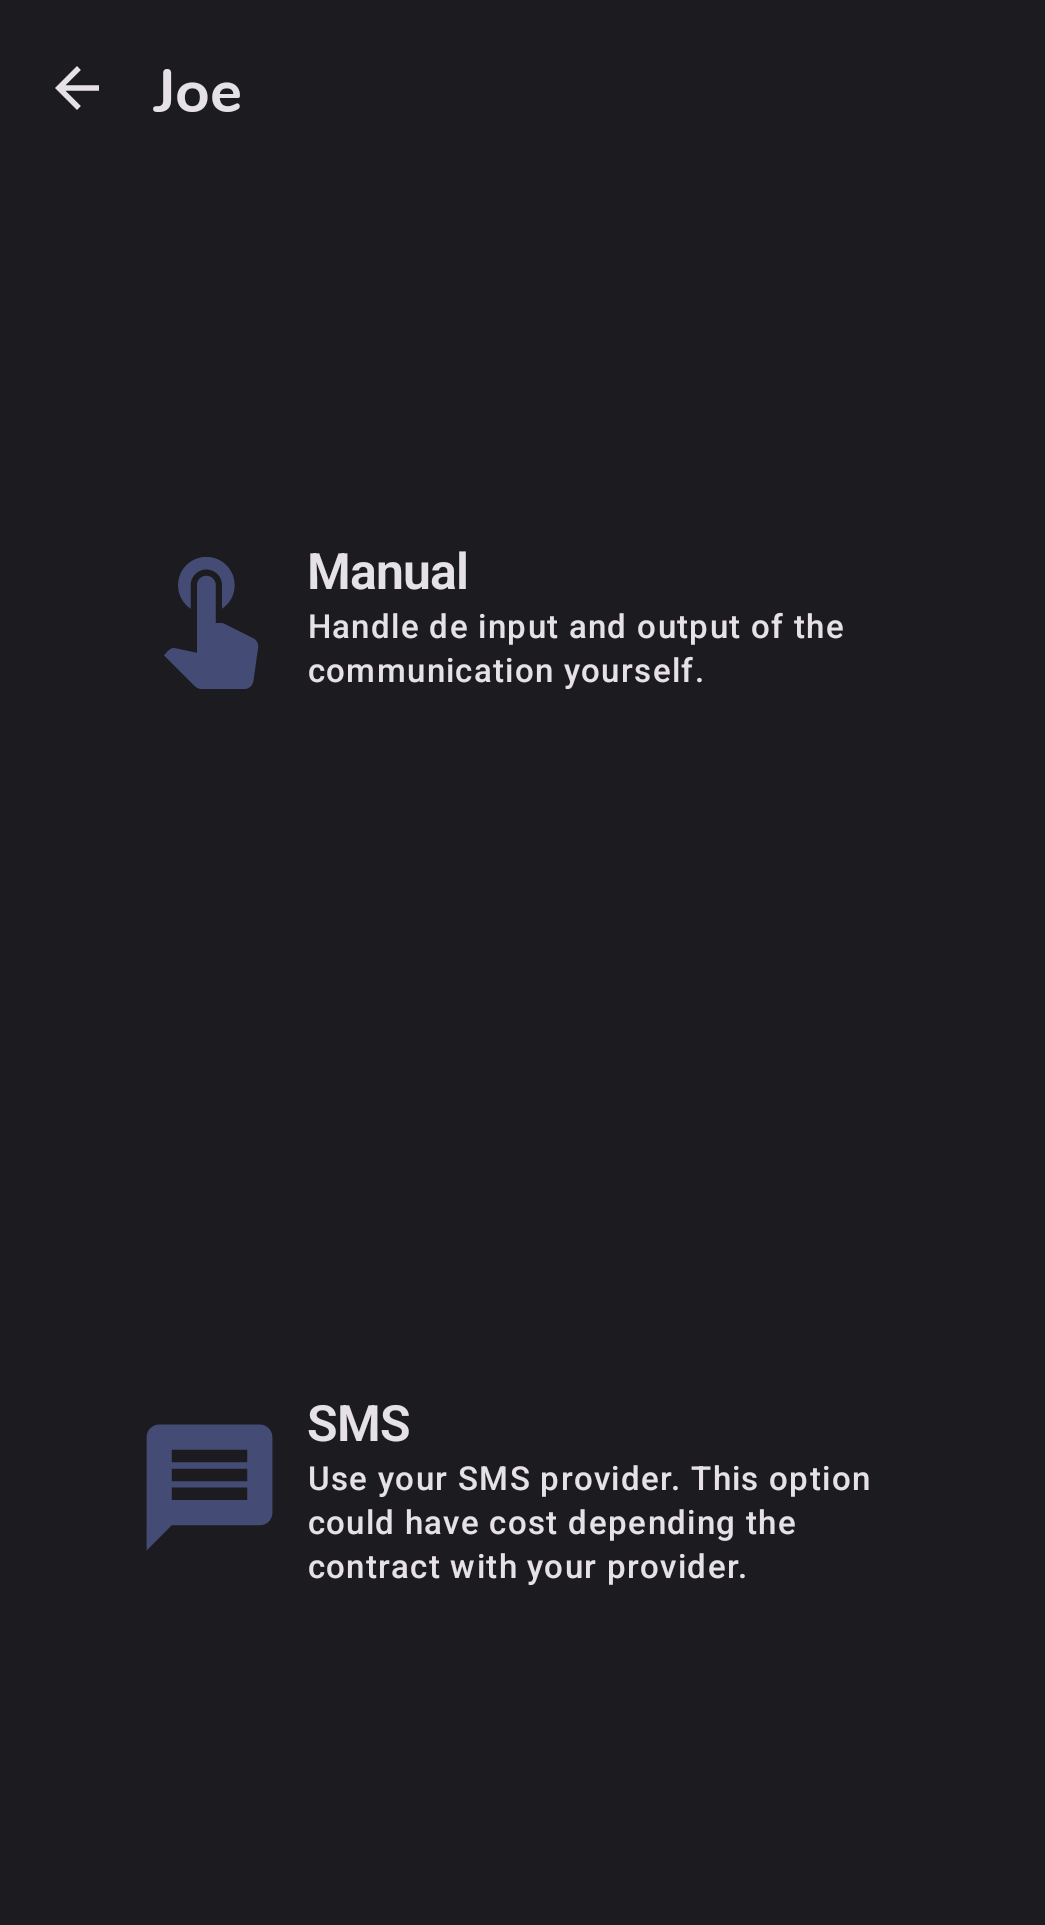
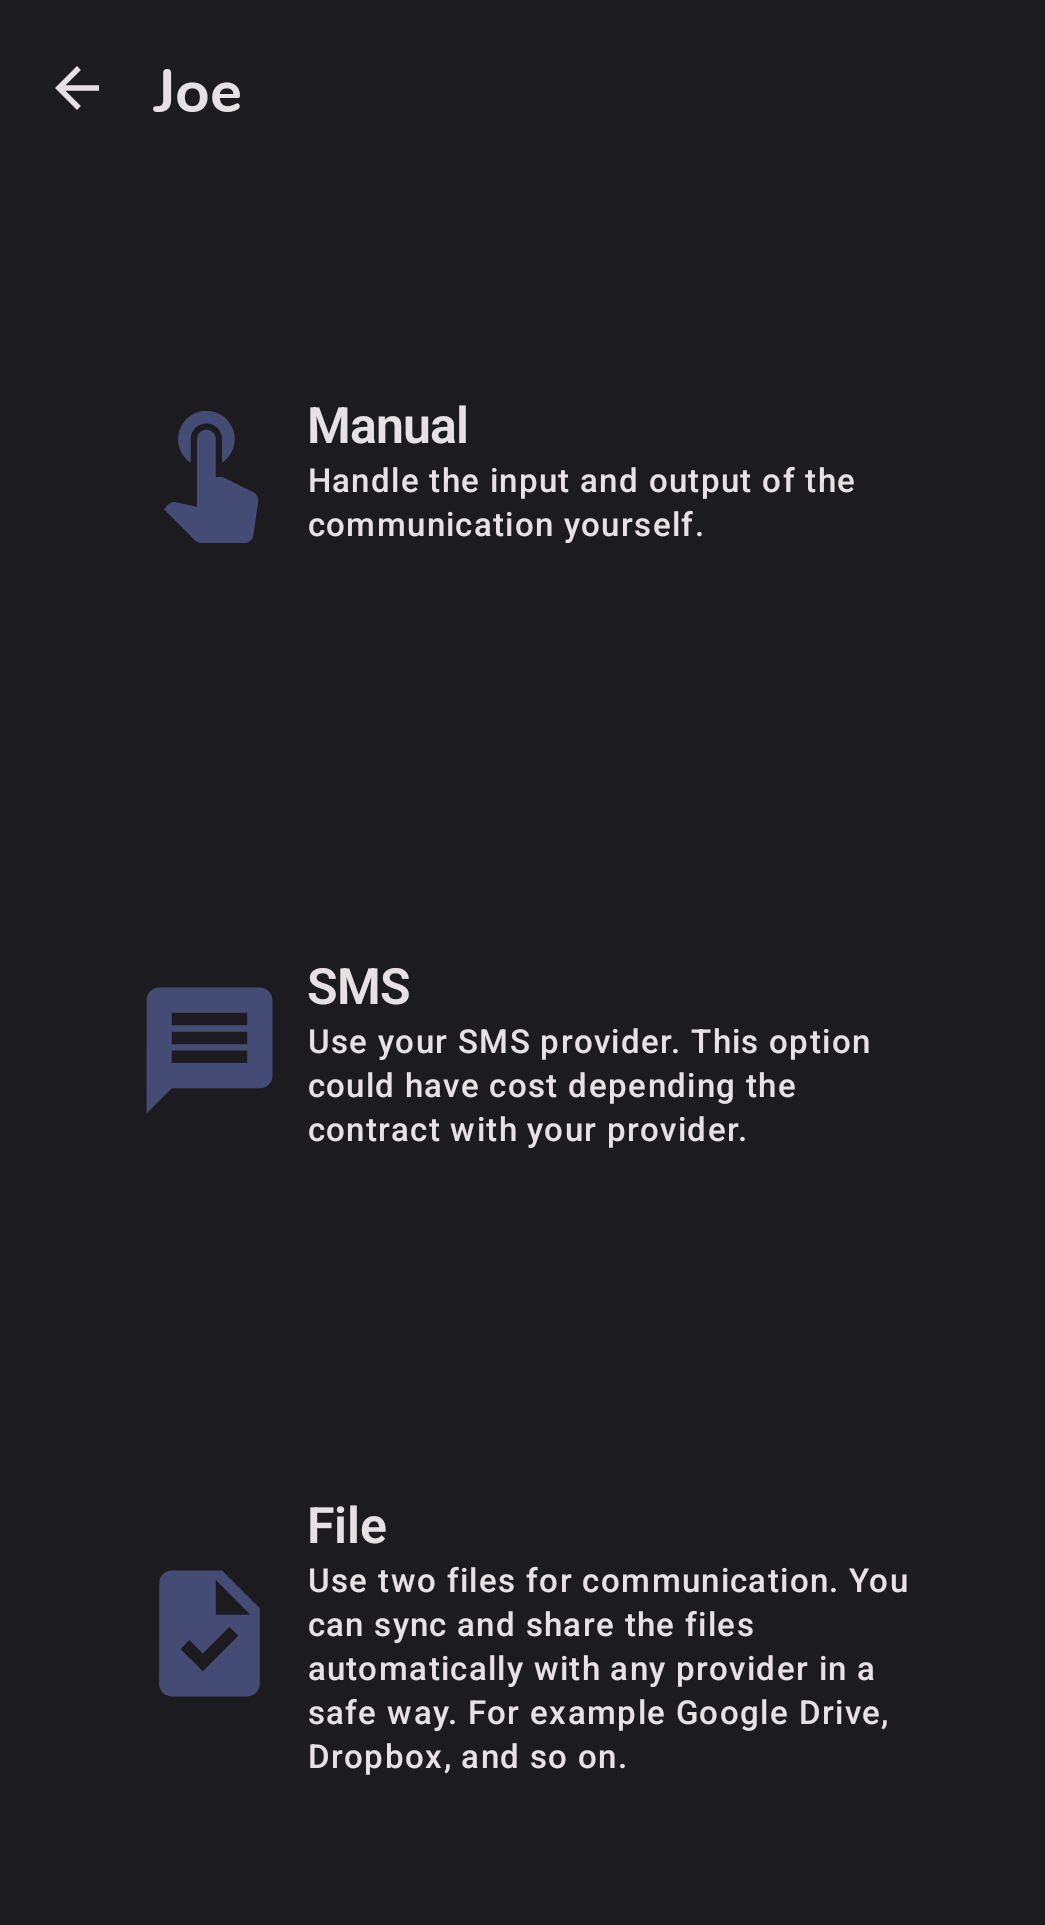
WIP

diff --git a/androidUI/src/main/java/io/github/nfdz/cryptool/ui/encryption/SmsSourceDialog.kt b/androidUI/src/main/java/io/github/nfdz/cryptool/ui/encryption/SmsSourceDialog.kt
@@ -42,7 +42,7 @@ internal fun SmsSourceDialog(callback: (MessageSource.Sms?) -> Unit) {
     }
 
     if (explainPermissionDialog) {
-        ExplainPermissionDialog(onDismiss = {
+        SmsExplainPermissionDialog(onDismiss = {
             explainPermissionDialog = false
             callback(null)
         })
@@ -71,7 +71,15 @@ internal fun SmsSourceDialog(callback: (MessageSource.Sms?) -> Unit) {
 @Preview
 private fun SmsSourceDialogPreview() {
     AppTheme {
-        SmsSourceDialogContent() {}
+        SmsSourceDialogContent {}
+    }
+}
+
+@Composable
+@Preview
+private fun SmsExplainPermissionDialogPreview() {
+    AppTheme {
+        SmsExplainPermissionDialog {}
     }
 }
 
@@ -90,7 +98,7 @@ internal fun SmsSourceDialogContent(callback: (String?) -> Unit) {
                 .fillMaxWidth(),
         ) {
             Text(
-                "TODO Title",
+                stringResource(R.string.encryption_source_sms_dialog_title),
                 style = MaterialTheme.typography.titleLarge,
             )
             Spacer(Modifier.size(8.dp))
@@ -111,7 +119,7 @@ internal fun SmsSourceDialogContent(callback: (String?) -> Unit) {
                 .size(40.dp),
                 enabled = validPhone(phone),
                 onClick = { callback(phone) }) {
-                Text("TODO Set")
+                Text(stringResource(R.string.encryption_source_sms_dialog_set))
             }
             Spacer(Modifier.size(8.dp))
             TextButton(
@@ -144,7 +152,7 @@ private fun PhoneTextField(
         value = value,
         singleLine = true,
         onValueChange = onValueChange,
-        label = { Text("TODO SMS") },
+        label = { Text(stringResource(R.string.encryption_source_sms_dialog_phone)) },
     )
 }
 
@@ -153,7 +161,7 @@ private fun validPhone(number: String): Boolean {
 }
 
 @Composable
-private fun ExplainPermissionDialog(
+private fun SmsExplainPermissionDialog(
     onDismiss: () -> Unit,
 ) {
     val context = LocalContext.current
@@ -163,12 +171,12 @@ private fun ExplainPermissionDialog(
             TextButton(onClick = {
                 onDismiss()
                 context.navigateToAppSystemSettings()
-            }) { Text("TODO Settings") }
+            }) { Text(stringResource(R.string.encryption_permission_sms_dialog_settings)) }
         },
         dismissButton = {
             TextButton(onClick = onDismiss) { Text(stringResource(android.R.string.cancel)) }
         },
-        title = { Text("TODO Permission Title") },
-        text = { Text("TODO Permission text") },
+        title = { Text(stringResource(R.string.encryption_permission_sms_dialog_title)) },
+        text = { Text(stringResource(R.string.encryption_permission_sms_dialog_content)) },
     )
 }

diff --git a/shared/src/androidMain/kotlin/io/github/nfdz/cryptool/shared/platform/file/FileMessageReceiverAndroid.kt b/shared/src/androidMain/kotlin/io/github/nfdz/cryptool/shared/platform/file/FileMessageReceiverAndroid.kt
@@ -2,6 +2,7 @@ package io.github.nfdz.cryptool.shared.platform.file
 
 import android.content.ContentResolver
 import android.content.Context
+import android.net.Uri
 import androidx.core.net.toUri
 import io.github.aakira.napier.Napier
 import io.github.nfdz.cryptool.shared.encryption.entity.Encryption
@@ -12,6 +13,7 @@ import io.github.nfdz.cryptool.shared.message.repository.MessageRepository
 import io.github.nfdz.cryptool.shared.platform.storage.KeyValueStorage
 import kotlinx.coroutines.*
 import java.io.FileInputStream
+import java.io.FileOutputStream
 
 class FileMessageReceiverAndroid(
     private val context: Context,
@@ -25,6 +27,7 @@ class FileMessageReceiverAndroid(
         private const val lastReceivedBaselineMillisKey = "file_last_received_baseline"
         private const val lastReceivedTimestampMillisKey = "file_last_received_timestamp"
         private const val pollingPeriodInMillis = 30_000L
+        private const val maxAmountOfEntriesPerFile = 10
     }
 
     private val contentResolver: ContentResolver
@@ -91,11 +94,13 @@ class FileMessageReceiverAndroid(
         val source = encryption.source as MessageSource.File
         val uri = source.inputFilePath.toUri()
         val lastReceivedTimestamp = source.getLastReceivedTimestamp()
-
+        var fileEntries = 0
         contentResolver.openFileDescriptor(uri, "r")?.use {
             FileInputStream(it.fileDescriptor).use { input ->
                 input.bufferedReader().use { br ->
-                    br.readLines().forEach { line ->
+                    val lines = br.readLines()
+                    fileEntries = lines.size
+                    lines.forEach { line ->
                         runCatching {
                             val parts = line.split(",")
                             val timestampInMillis = parts[0].toLong()
@@ -110,7 +115,22 @@ class FileMessageReceiverAndroid(
             }
         }
 
+        if (fileEntries > maxAmountOfEntriesPerFile) {
+            Napier.d(tag = tag, message = "Clear file triggered. File entries: $fileEntries. File: '$uri'")
+            clearFile(uri)
+        }
+
         return result
+    }
+
+    private fun clearFile(uri: Uri) = runCatching {
+        contentResolver.openFileDescriptor(uri, "wt")?.use {
+            FileOutputStream(it.fileDescriptor).use { output ->
+                output.write("".toByteArray())
+            }
+        }
+    }.onFailure {
+        Napier.e(tag = tag, message = "Clear file error", throwable = it)
     }
 
     private fun MessageSource.File.getLastReceivedTimestamp(): Long {

diff --git a/androidApp/src/main/java/io/github/nfdz/cryptool/platform/broadcast/MessageEventBroadcast.kt b/androidApp/src/main/java/io/github/nfdz/cryptool/platform/broadcast/MessageEventBroadcast.kt
@@ -5,6 +5,7 @@ import android.content.Context
 import android.content.Intent
 import android.content.IntentFilter
 import io.github.aakira.napier.Napier
+import io.github.nfdz.cryptool.R
 import io.github.nfdz.cryptool.shared.message.viewModel.MessageAction
 import io.github.nfdz.cryptool.shared.message.viewModel.MessageViewModel
 import io.github.nfdz.cryptool.shared.platform.sms.SmsSenderAndroid
@@ -15,7 +16,6 @@ object MessageEventBroadcast {
         SmsSenderAndroid.smsSentAction,
         SmsSenderAndroid.smsDeliveredAction,
     )
-
 
 
     fun createReceiver(messageViewModel: MessageViewModel): MessageEventBroadcastReceiver =
@@ -38,17 +38,19 @@ object MessageEventBroadcast {
 class MessageEventBroadcastReceiver(private val messageViewModel: MessageViewModel) : BroadcastReceiver() {
 
     override fun onReceive(context: Context?, intent: Intent?) {
+        context ?: return
         Napier.d(tag = "MessageEventBroadcastReceiver", message = "Received event: ${intent?.action}")
-        val message = actionToMessage(intent?.action) ?: return
+        val message = actionToMessage(context, intent?.action) ?: return
         messageViewModel.dispatch(MessageAction.Event(message))
     }
 
-    private fun actionToMessage(action: String?): String? {
+    private fun actionToMessage(context: Context, action: String?): String? {
         return when (action) {
-            SmsSenderAndroid.smsSentAction -> "TODO smsSentAction"
-            SmsSenderAndroid.smsDeliveredAction -> "TODO smsDeliveredAction"
+            SmsSenderAndroid.smsSentAction -> context.getString(R.string.encryption_sms_sent_snackbar)
+            SmsSenderAndroid.smsDeliveredAction -> context.getString(R.string.encryption_sms_delivered_snackbar)
             else -> {
                 Napier.e(tag = "MessageEventBroadcastReceiver", message = "Unknown received event: $action")
+                assert(false)
                 null
             }
         }

diff --git a/androidUI/src/main/java/io/github/nfdz/cryptool/ui/encryption/FileSourceDialog.kt b/androidUI/src/main/java/io/github/nfdz/cryptool/ui/encryption/FileSourceDialog.kt
@@ -35,7 +35,7 @@ internal fun FileSourceDialog(callback: (MessageSource.File?) -> Unit) {
 @Preview
 private fun FileSourceDialogPreview() {
     AppTheme {
-        FileSourceDialogContent() {}
+        FileSourceDialogContent {}
     }
 }
 
@@ -63,7 +63,7 @@ internal fun FileSourceDialogContent(callback: (MessageSource.File?) -> Unit) {
                 .fillMaxWidth(),
         ) {
             Text(
-                "TODO Title",
+                stringResource(R.string.encryption_source_file_dialog_title),
                 style = MaterialTheme.typography.titleLarge,
             )
             Spacer(Modifier.size(8.dp))
@@ -72,7 +72,7 @@ internal fun FileSourceDialogContent(callback: (MessageSource.File?) -> Unit) {
                 .size(40.dp), enabled = inputFilePath.isBlank(), onClick = {
                 launcherPickInputFile.launch("")
             }) {
-                Text("Pick input file")
+                Text(stringResource(R.string.encryption_source_file_dialog_input))
             }
             Spacer(Modifier.size(8.dp))
             TextButton(modifier = Modifier
@@ -80,7 +80,7 @@ internal fun FileSourceDialogContent(callback: (MessageSource.File?) -> Unit) {
                 .size(40.dp), enabled = outputFilePath.isBlank(), onClick = {
                 launcherPickOutputFile.launch("")
             }) {
-                Text("Pick output file")
+                Text(stringResource(R.string.encryption_source_file_dialog_output))
             }
             Spacer(Modifier.size(8.dp))
             Button(modifier = Modifier
@@ -95,7 +95,7 @@ internal fun FileSourceDialogContent(callback: (MessageSource.File?) -> Unit) {
                         )
                     )
                 }) {
-                Text("TODO Set")
+                Text(stringResource(R.string.encryption_source_file_dialog_set))
             }
             Spacer(Modifier.size(8.dp))
             TextButton(

diff --git a/androidUI/src/androidTest/java/io/github/nfdz/cryptool/ui/encryption/FileSourceDialogScreenshotTest.kt b/androidUI/src/androidTest/java/io/github/nfdz/cryptool/ui/encryption/FileSourceDialogScreenshotTest.kt
@@ -1,0 +1,35 @@
+package io.github.nfdz.cryptool.ui.encryption
+
+import dev.testify.ComposableScreenshotRule
+import dev.testify.annotation.ScreenshotInstrumentation
+import io.github.nfdz.cryptool.ui.DarkColorScheme
+import io.github.nfdz.cryptool.ui.LightColorScheme
+import io.github.nfdz.cryptool.ui.test.TestEntry
+import org.junit.Rule
+import org.junit.Test
+
+class FileSourceDialogScreenshotTest {
+
+    @get:Rule
+    val rule = ComposableScreenshotRule()
+
+    @ScreenshotInstrumentation
+    @Test
+    fun light() {
+        rule.setCompose {
+            TestEntry(colorScheme = LightColorScheme) {
+                FileSourceDialogContent {}
+            }
+        }.assertSame()
+    }
+
+    @ScreenshotInstrumentation
+    @Test
+    fun dark() {
+        rule.setCompose {
+            TestEntry(colorScheme = DarkColorScheme) {
+                FileSourceDialogContent {}
+            }
+        }.assertSame()
+    }
+}

diff --git a/androidUI/src/androidTest/java/io/github/nfdz/cryptool/ui/encryption/SmsSourceDialogScreenshotTest.kt b/androidUI/src/androidTest/java/io/github/nfdz/cryptool/ui/encryption/SmsSourceDialogScreenshotTest.kt
@@ -1,0 +1,35 @@
+package io.github.nfdz.cryptool.ui.encryption
+
+import dev.testify.ComposableScreenshotRule
+import dev.testify.annotation.ScreenshotInstrumentation
+import io.github.nfdz.cryptool.ui.DarkColorScheme
+import io.github.nfdz.cryptool.ui.LightColorScheme
+import io.github.nfdz.cryptool.ui.test.TestEntry
+import org.junit.Rule
+import org.junit.Test
+
+class SmsSourceDialogScreenshotTest {
+
+    @get:Rule
+    val rule = ComposableScreenshotRule()
+
+    @ScreenshotInstrumentation
+    @Test
+    fun light() {
+        rule.setCompose {
+            TestEntry(colorScheme = LightColorScheme) {
+                SmsSourceDialogContent {}
+            }
+        }.assertSame()
+    }
+
+    @ScreenshotInstrumentation
+    @Test
+    fun dark() {
+        rule.setCompose {
+            TestEntry(colorScheme = DarkColorScheme) {
+                SmsSourceDialogContent {}
+            }
+        }.assertSame()
+    }
+}

diff --git a/androidUI/src/main/java/io/github/nfdz/cryptool/ui/encryption/SourcePicker.kt b/androidUI/src/main/java/io/github/nfdz/cryptool/ui/encryption/SourcePicker.kt
@@ -3,7 +3,6 @@ package io.github.nfdz.cryptool.ui.encryption
 import androidx.compose.foundation.clickable
 import androidx.compose.foundation.layout.*
 import androidx.compose.material.icons.Icons
-import androidx.compose.material.icons.filled.FileOpen
 import androidx.compose.material.icons.filled.Message
 import androidx.compose.material.icons.filled.Task
 import androidx.compose.material.icons.filled.TouchApp
@@ -67,8 +66,8 @@ fun SourcePicker(modifier: Modifier = Modifier, onPick: (MessageSource) -> Unit)
             showSmsDialog = true
         },
         SourceOptionEntry(
-            title = "TODO File",
-            description = "TODO SMS",
+            title = stringResource(R.string.encryption_source_file_title),
+            description = stringResource(R.string.encryption_source_file_description),
             icon = Icons.Filled.Task,
         ) {
             showFileDialog = true

diff --git a/shared/src/commonMain/kotlin/io/github/nfdz/cryptool/shared/message/viewModel/MessageViewModel.kt b/shared/src/commonMain/kotlin/io/github/nfdz/cryptool/shared/message/viewModel/MessageViewModel.kt
@@ -16,6 +16,10 @@ data class MessageState(
     companion object {
         val empty = MessageState(null, emptyList(), emptySet(), true)
     }
+
+    override fun toString(): String {
+        return "$MessageState(encryptionId=${encryption?.id}, messages.size=${messages.size}, selectedMessageIds.size=${selectedMessageIds.size}, visibility=$visibility)"
+    }
 }
 
 sealed class MessageAction : Action {

diff --git a/README.md b/README.md
@@ -20,7 +20,9 @@ This is a non-profit open source solution and we are not interested in your data
 - Modern UI. Material You + support to light/dark theme.
 - Multiple encryption configurations as conversations.
 - Multiple message sources.
-  - Manual mode is the only one in production.
+  - Manual. Handle the input and output of the communication yourself.
+  - SMS. Use your SMS provider. This option could have cost depending the contract with your provider.
+  - File. Use two files for communication. You can sync and share the files automatically with any provider in a safe way. For example Google Drive, Dropbox, and so on.
 - Keystore.
 - Multiple algorithms and encryption configurations.
 - Interoperable encryption.
